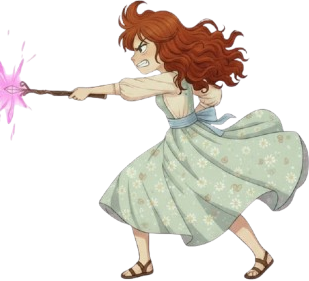
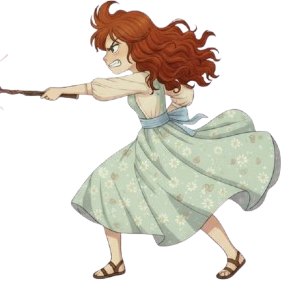
Add files via upload

Changed region(s): [[0.0, 0.0, 0.9964, 0.9964], [0.8256, 0.5409, 0.8541, 0.5979], [0.0569, 0.1423, 0.0854, 0.1708]]

diff --git a/tpfinalparte2/Clases.js b/tpfinalparte2/Clases.js
@@ -1,13 +1,47 @@
 class Juego{
   
 constructor(){
-//this.Ann = new Ann();
+this.Ann = new Ann();
 this.Cecy = new Cecy();
 }
 
 mostrar(){
   this.Cecy.mostrar();
+  this.Ann.mostrar();
+  this.colision();
 }
+
+flechas(keyCode){
+this.Ann.flechas(keyCode);
+}
+
+colision(){
+  
+//circulos para ver donde son los puntos desde donde se mide la distancia
+
+//ellipse(this.Ann.px + this.Ann.tam/2, this.Ann.py + this.Ann.tam/2, 10);
+//ellipse(this.Cecy.Hechizo.px + 20, this.Cecy.py + 50, 10);
+
+let Distancia = dist ( this.Ann.px + this.Ann.tam/2, this.Ann.py + this.Ann.tam/2, this.Cecy.Hechizo.px + 20, this.Cecy.py + 50);
+if (Distancia <60){
+  fill(255,0,0);
+  textSize(100);
+text("toco", 300,200);
+}
+
+
+//dos distancias donde en la primera el punto es en "la punta del hechizo" y en la segunda, el punto es en el medio del hechizo
+//ellipse(this.Cecy.Hechizo.px + 50, this.Cecy.py + 50, 10);
+
+let Distancia2 = dist ( this.Ann.px + this.Ann.tam/2, this.Ann.py + this.Ann.tam/2, this.Cecy.Hechizo.px + 50, this.Cecy.py + 50);
+if (Distancia2 <60){
+  fill(255,0,0);
+  textSize(100);
+text("toco", 300,200);
+}
+
+}
+
 
 iniciar(){
 }
@@ -23,32 +57,57 @@ reiniciar(){
 
 }
 
-//class Ann{//(Jugador)
+class Ann{//(Jugador)
   
-//constructor(){
-//this.px=0;
-//this.py=0;
+constructor(){
+this.px=0;
+this.py=31;
+this.tam = 200;
 //this.vidas=3;
-//}
+}
 
-//moverX(){
-//  if (KeyCode===LEFT_ARROW){
-//  this.px --;
-//}
+mostrar(){
+image(Annimg, this.px, this.py, this.tam, this.tam);
+}
+
+
+flechas(keyCode){
+  if (keyCode == LEFT_ARROW){
+  this.moverIzq();
+}
+else if (keyCode == RIGHT_ARROW){
+  this.moverDer();
+}
+
+  if (keyCode == UP_ARROW){
+  this.moverArriba();
+  }
   
-//  if (KeyCode===RIGHT_ARROW){
-//  this.px ++;
-//}
-//}
+  else if (keyCode == DOWN_ARROW){
+  this.moverAbajo();
+  }
+}
 
-//moverY(){
-//  if (KeyCode===UP_ARROW){
-//  this.py --;
-//  }
-//  if (KeyCode===DOWN_ARROW){
-//  this.py ++;
-//  }
-//}
+moverIzq(){
+  this.px -=20;
+}
+
+moverDer(){
+  this.px +=20;
+}
+  
+
+moverArriba(){
+  if (this.py>30){
+  this.py -=20;
+  }
+}
+
+moverAbajo(){
+  this.py +=20;
+}
+
+
 
 //vidas(){
 //  this.vidas=3;
@@ -57,7 +116,7 @@ reiniciar(){
 //  }
 //}
 
-//}
+}//no tocar
 
 
 
@@ -74,11 +133,11 @@ this.Hechizo = new Hechizo();
 mostrar(){
 this.mover();
 image (Cecyimg, this.px, this.py, 100,this.alto);
-this.Hechizo.mostrar(this.px-40, this.py+30)
+this.Hechizo.mostrar(this.py+35)
 }
 
 mover(){
-
+  
   if (this.baja) {
     this.py += 5;
   if (this.py >= height - this.alto) {
@@ -96,21 +155,23 @@ mover(){
 }
 
 
-class Hechizo {//los hechizos salen desde la varita de cecy que va a estar en movimiento, lo ideal seria que se disparen automaticamente cada un segundo
+class Hechizo {
 
 constructor(){
-this.px = 470;
-this.py = 50;
+this.px = 430;
 this.baja = true;
 }
 
-mostrar(px,py){
-this.mover();
-image(hechizo, px, py, 70, 30);
+mostrar(py){
+this.disparo();
+image(hechizo, this.px, py, 100, 40);
 }
 
-mover(){
-
+disparo(){
+this.px -=5;
+if (this.px <= -100) {
+this.px=430;
+}
 }
 
 }

diff --git a/tpfinalparte2/tpfinalparte2.js b/tpfinalparte2/tpfinalparte2.js
@@ -1,7 +1,7 @@
 //Comision 1
 //Hanna Mendoza y Juan Cruz Peri
 let juego;
-let fondo, Annimg, Cecyimg, hechizo;
+let fondo, Annimg, Cecyimg, hechizo, comenzar;
 let cancion;
 
 function preload (){
@@ -9,6 +9,7 @@ fondo = loadImage('data/fondo.jpg');
 Annimg = loadImage('data/Annimg.png');
 Cecyimg = loadImage('data/Cecyimg.png');
 hechizo = loadImage('data/hechizo.png');
+comenzar = loadImage('data/comenzar.png');
 cancion = loadSound('data/cancion.mp3');
 }
 
@@ -21,4 +22,8 @@ juego = new Juego();
 function draw() {
 image(fondo, 0,0);
 juego.mostrar();
+}
+
+function keyPressed(){
+juego.flechas(keyCode);
 }
